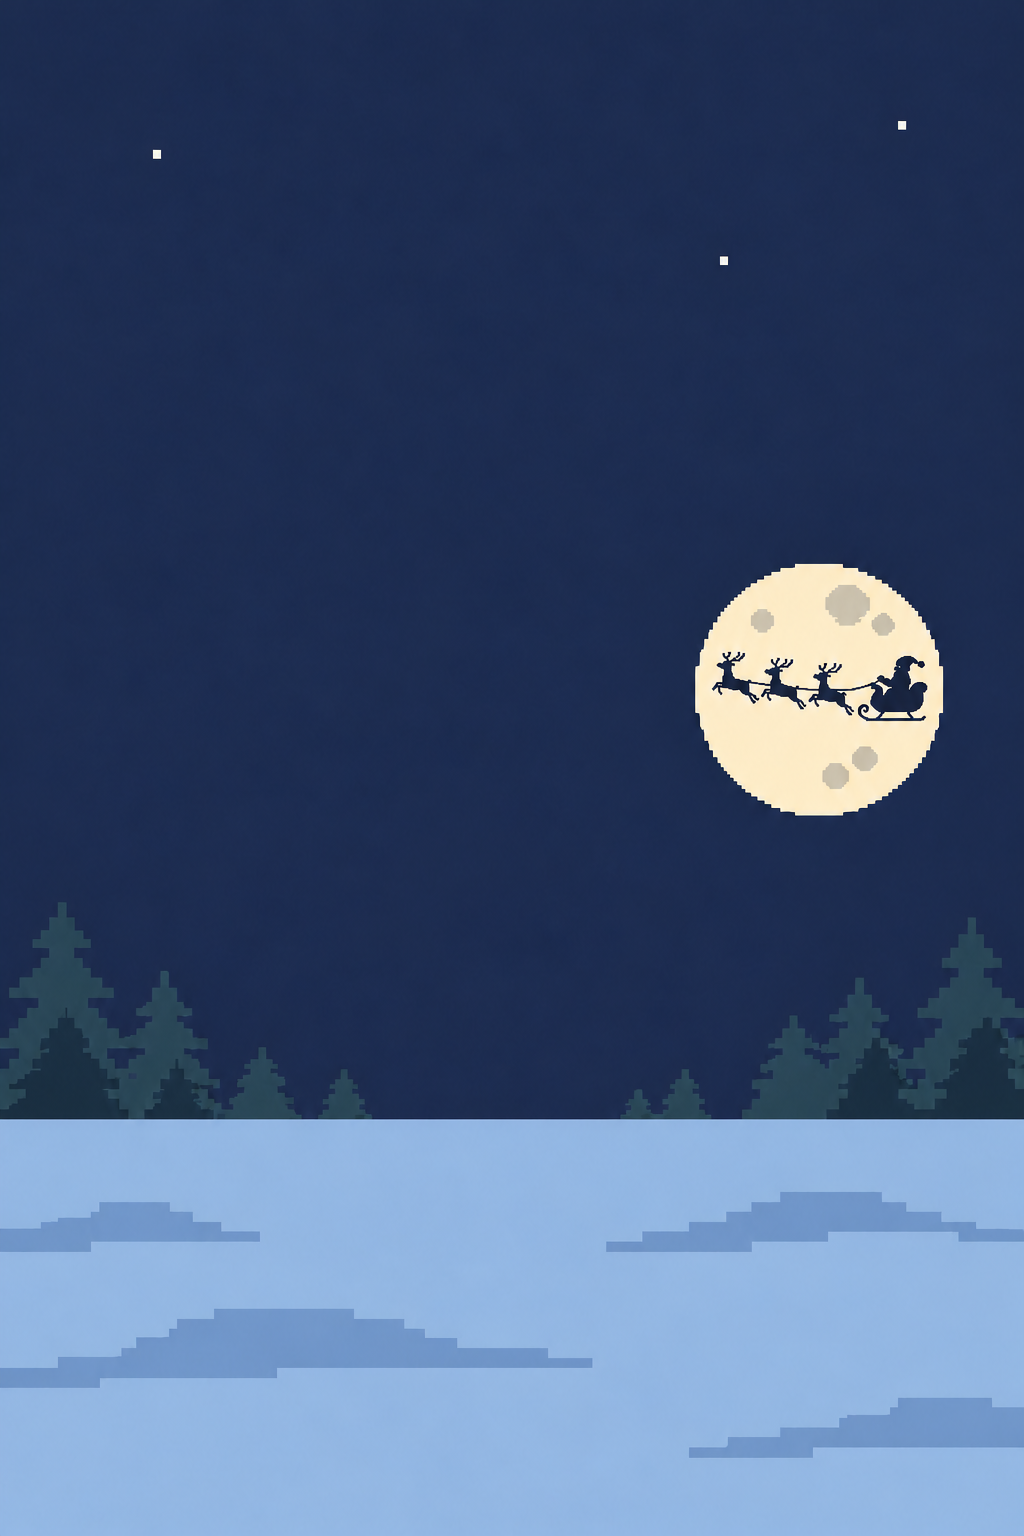
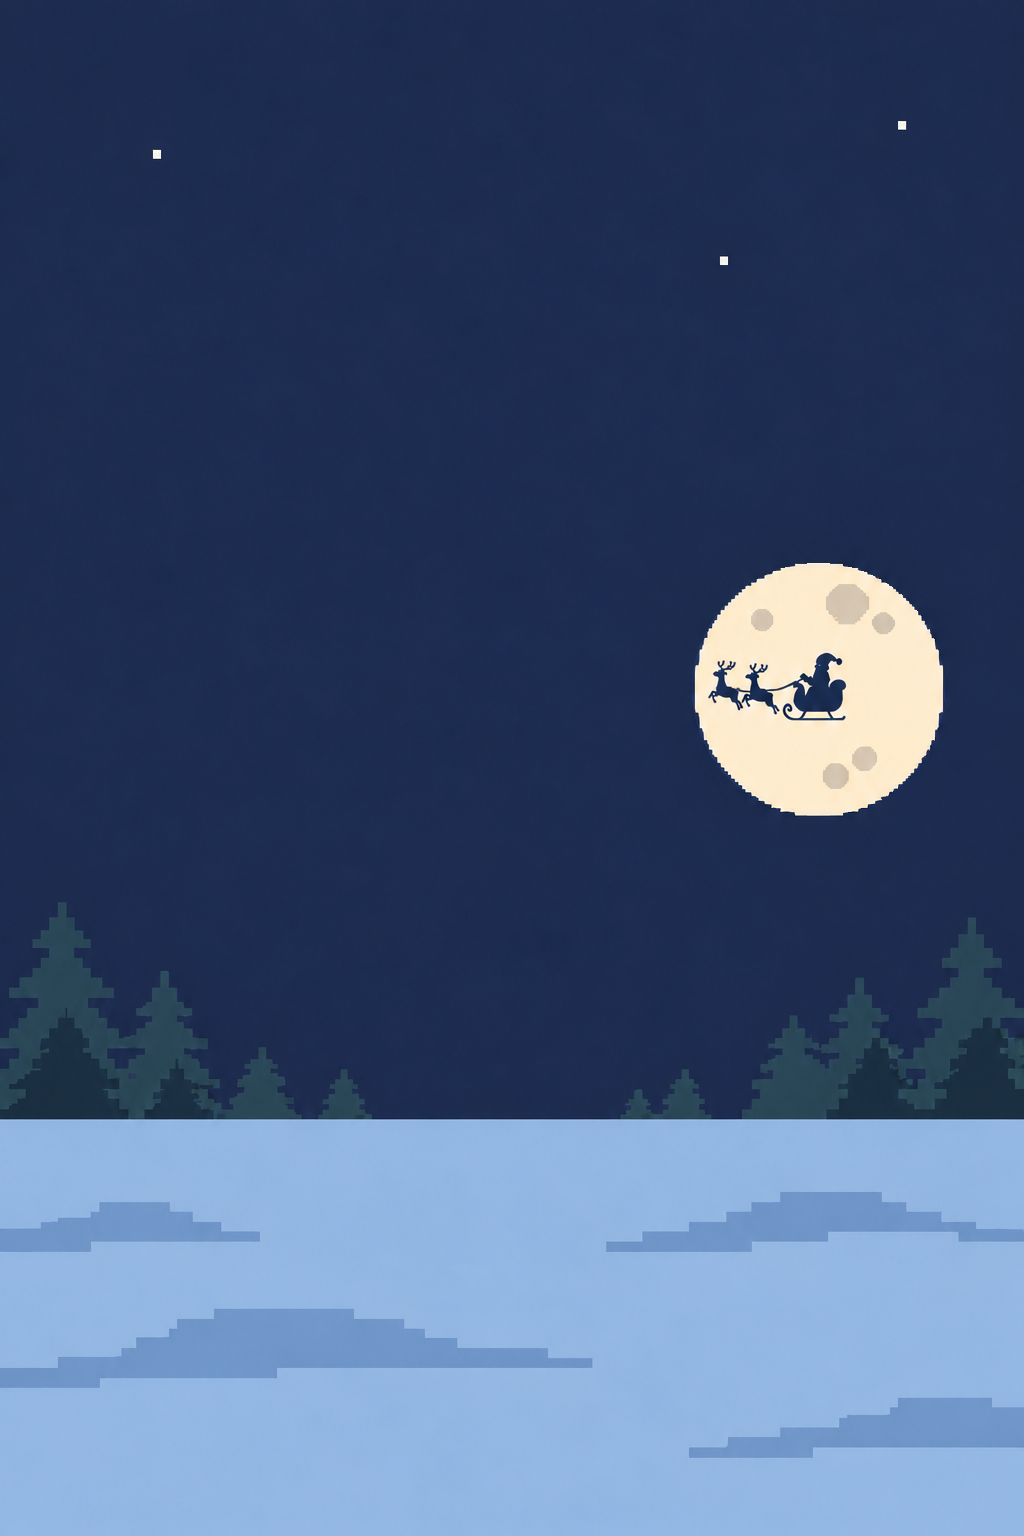
feat(world): 선물상자는 빛이 새어 나오게, 눈 덮인 밤은 산타가 보이게
- 선물상자 2~6단계: 리본이 풀려 늘어지고 속이 보이던 연출 → 리본·리본매듭은 그대로,
  뚜껑이 들리며 틈으로 금빛만 새어 나옴(1단계는 그대로)
- 눈 덮인 밤: 승인한 v2에 달 부분만 v4로 교체. 산타 썰매가 요즘 아이폰에서 잘리던 문제 →
  썰매+순록 2마리를 보이는 영역(x 709–845 / 1024) 안으로
- 배경 스크립트: 양자화가 넓은 하늘에 거의 같은 두 색을 줘 생기던 잡티를 합침
- CLAUDE.md: 배경 시안은 기기 크롭으로 보여주기 교훈

Changed region(s): [[0.6875, 0.4062, 0.9062, 0.4688]]

diff --git a/scripts/make_christmas_backgrounds.py b/scripts/make_christmas_backgrounds.py
@@ -10,8 +10,8 @@
 바닥 밝기가 FLOOR_MAX_LUM을 넘으면 바닥만 같은 색조로 어둡게 낮춘다(눈밭 → 달빛 눈밭).
 기준은 기존 배경 중 가장 어두운 바닥 대비(Cocoa ≈ 3:1)와 같다 → AppThemeTests가 앱 번들 그림으로 다시 검사한다.
 
-원본 바꾸기(예: 눈 덮인 밤 v3): 아래 BACKGROUNDS의 원본 파일을 덮어쓰고 다시 실행하면 된다.
-  cp images/christmas-draft/backgrounds/xmas_bg_B_snowy_night_v3.png images/backgrounds/source/07_Snowy_Night_iPhone_raw.png
+원본 바꾸기(현재 눈 덮인 밤 = v4: v2에 달 부분만 v4로 교체, 산타가 아이폰 보이는 영역 안): 아래 BACKGROUNDS의 원본 파일을 덮어쓰고 다시 실행하면 된다.
+  cp images/christmas-draft/backgrounds/xmas_bg_B_snowy_night_v4.png images/backgrounds/source/07_Snowy_Night_iPhone_raw.png
   python3 scripts/make_christmas_backgrounds.py
 그다음 출력된 "top color"가 AppTheme.pageBackground와 다르면 그 값으로 고친다(테스트가 알려준다).
 
@@ -109,6 +109,24 @@ def match_colors(rgb: np.ndarray, ref: np.ndarray) -> np.ndarray:
     return np.clip(out, 0, 255)
 
 
+def merge_near_duplicates(im: Image.Image, min_dist: float = 6) -> Image.Image:
+    """kmeans가 넓은 면(하늘)에 거의 같은 두 색을 주면 눈에 안 띄는 잡티 얼룩이 된다 → 드문 색을 흔한 색으로 합친다.
+    (눈 덮인 밤 v4: 달만 바꿨는데 하늘이 0x1D2C51/0x1C2B4F 두 색으로 갈라짐)"""
+    idx = np.asarray(im)                      # 팔레트(P) 이미지의 색 번호
+    pal = np.array(im.getpalette(), dtype=np.float64).reshape(-1, 3)
+    used, counts = np.unique(idx, return_counts=True)
+    target = np.arange(256)
+    order = used[np.argsort(-counts)]
+    for i, a in enumerate(order):
+        for b in order[:i]:
+            if target[b] == b and np.linalg.norm(pal[a] - pal[b]) < min_dist:
+                target[a] = b
+                break
+    out = Image.frombytes("P", im.size, target[idx].astype(np.uint8).tobytes())
+    out.putpalette(im.getpalette())
+    return out
+
+
 PHONE_ANCHORS: dict[str, np.ndarray] = {}
 
 
@@ -128,6 +146,7 @@ def make(keep_name: str, asset: str, source: str, screen: dict) -> None:
     # MAXCOVERAGE+kmeans: 넓은 벽·하늘이 색을 독차지하지 않아 불꽃·장식·달 크레이터 색이 남는다(MEDIANCUT은 뭉갬)
     im = Image.fromarray(np.round(rgb).astype(np.uint8)).quantize(
         colors=COLORS, method=Image.Quantize.MAXCOVERAGE, kmeans=5, dither=Image.Dither.NONE)
+    im = merge_near_duplicates(im)
 
     # 자체 검사: 격자 크기·색 수·바닥 밝기
     flat = np.asarray(im.convert("RGB"))

diff --git a/CLAUDE.md b/CLAUDE.md
@@ -243,3 +243,8 @@ xcrun xcresulttool get test-results summary --path /tmp/res.xcresult
   - 증상: 따로 생성된 가로 그림(벽 #551A2F)을 아이폰 결과 24색에 최근접 매핑했더니 벽 전체가 벽난로 그늘색(#4A2929)으로, 남색 하늘은 두 색이 섞인 얼룩으로 바뀜.
   - 원인: 큰 면의 색이 팔레트의 "같은 역할" 색보다 다른 물체의 색에 더 가까울 수 있다(RGB 거리 19.5 vs 22). 최근접 매핑은 역할을 모른다.
   - 교훈: 두 그림의 색을 맞출 땐 **역할이 같은 넓은 면(위 벽·하늘 / 바닥)을 기준점으로 채널별 1차식 보정 후** 각자 양자화한다(`make_christmas_backgrounds.py`의 `match_colors`). 결과는 반드시 눈으로 본다.
+
+- **2026-11-12 · 배경 시안을 원본 전체 그림으로만 보여줘 사용자가 "기기에서 잘리는 버전"을 골랐음**
+  - 증상: 눈 덮인 밤 v2(산타 썰매가 달 오른쪽)와 v3(썰매를 안쪽으로 옮김)를 원본 그대로 비교시켰더니 v2 확정. 실제 아이폰에선 오른쪽이 잘려 산타가 안 보임 → 다시 작업.
+  - 원인: 요즘 아이폰은 2:3 그림의 가운데 약 69%(1024 기준 x≈160–860)만 보인다. 잘린다고 말로만 알렸고, 고르는 그림 자체는 잘리지 않은 원본이었다.
+  - 교훈: 배경 시안은 **기기에서 실제로 보이는 크기로 잘라서**(아이폰·아이패드 각각) 나란히 보여주고 고르게 한다. 중요한 소품은 처음 지시문부터 안전 영역(x 160–860) 안에 두라고 적는다.
